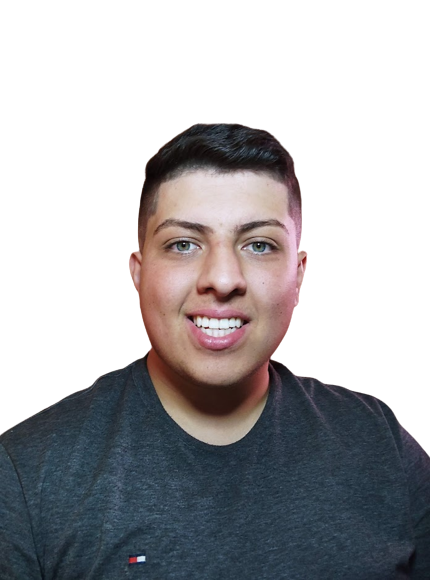
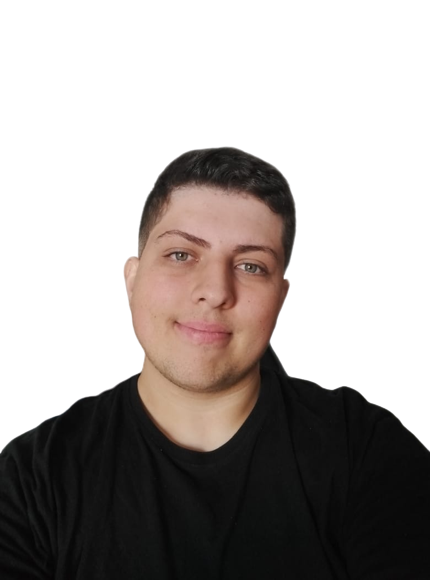
refactor: add new images

diff --git a/index.html b/index.html
@@ -35,11 +35,7 @@
         <h3 class="profile__profession">Desenvolvedor Web Júnior</h3>
 
         <ul class="profile__social">
-          <a href="https://www.instagram.com/jvddavid/" target="_blank" class="profile__social-link">
-            <i class="ri-instagram-line"></i>
-          </a>
-          <a href="https://www.linkedin.com/in/joão-victor-davi-abb8341a3/" target="_blank"
-            class="profile__social-link">
+          <a href="https://www.linkedin.com/in/joao-davi-oliveira/" target="_blank" class="profile__social-link">
             <i class="ri-linkedin-box-line"></i>
           </a>
           <a href="https://github.com/jvddavid" target="_blank" class="profile__social-link">
@@ -50,7 +46,7 @@
 
       <div class="profile__info grid">
         <div class="profile__info-group">
-          <h3 class="profile__info-number">2</h3>
+          <h3 class="profile__info-number">3</h3>
           <p class="profile__info-description">
             Anos <br> de trabalho
           </p>
@@ -63,7 +59,7 @@
         </div>
         <div class="profile__info-group">
           <h3 class="profile__info-number">3</h3>
-          <p class="profile__info-description">Satisfied <br> customers</p>
+          <p class="profile__info-description">Clientes <br> satisfeitos</p>
         </div>
       </div>
 
@@ -75,7 +71,7 @@
 
         <div class="profile__buttons-small">
           <!-- Insert a real number plus country code -->
-          <a href="https://api.whatsapp.com/send?phone=51123456789&text=Olá, quero mais informações sobre você!"
+          <a href="https://api.whatsapp.com/send?phone=5534999475798&text=Olá, quero mais informações sobre você!"
             target="_blank" class="button button__small button__gray">
             <i class="ri-whatsapp-line"></i>
           </a>
@@ -90,10 +86,10 @@
     <section class="filters container">
       <!--=============== FILTERS TABS ===============-->
       <ul class="filters__content">
-        <button class="filters__button filter-tab-active" data-target="#projects">
+        <button class="filters__button" data-target="#projects">
           Projetos
         </button>
-        <button class="filters__button" data-target="#skills">
+        <button class="filters__button filter-tab-active" data-target="#skills">
           Habilidades
         </button>
         <button class="filters__button" data-target="#certificates">
